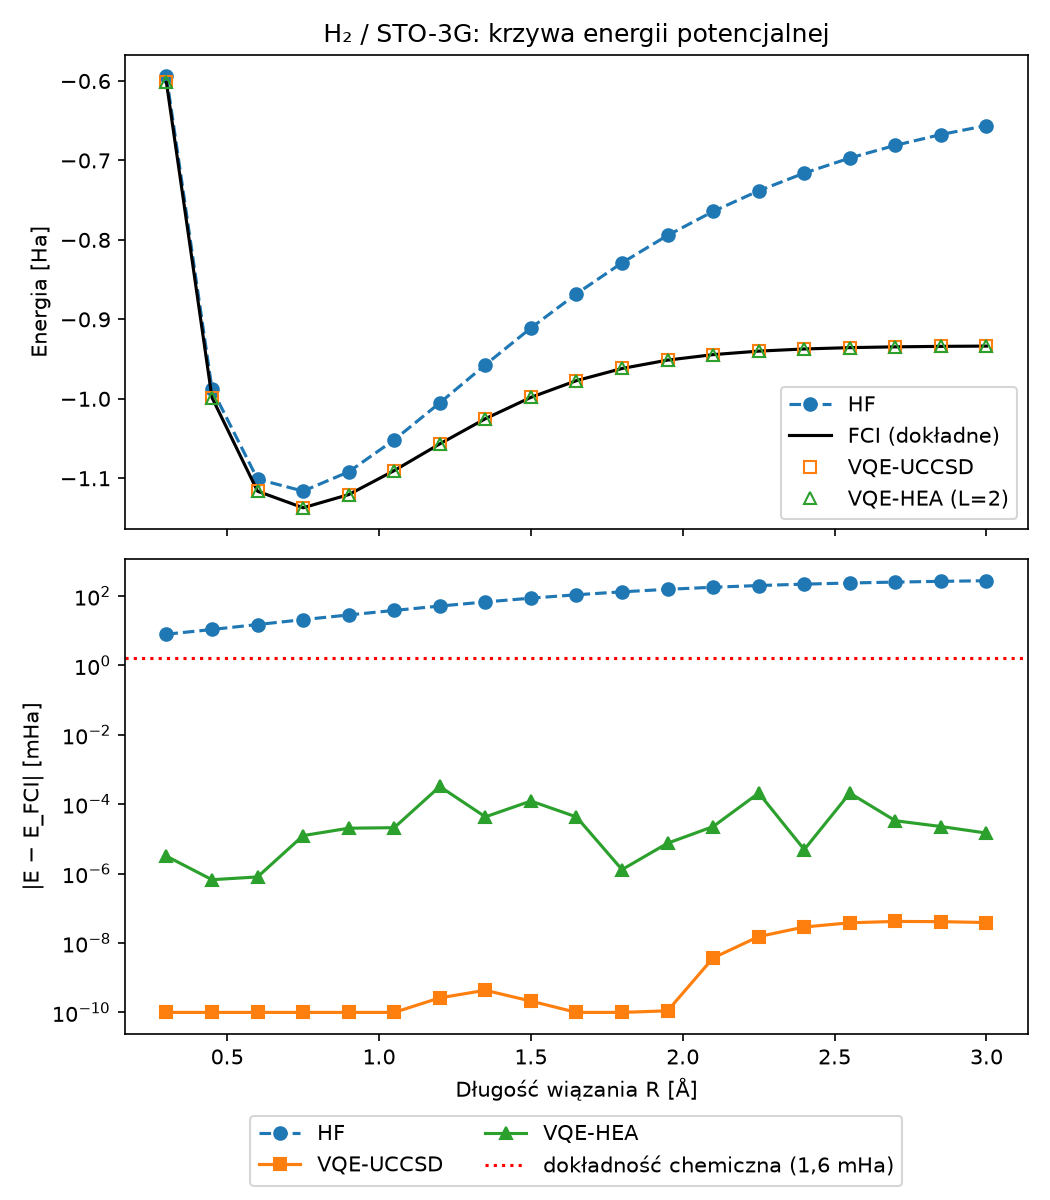
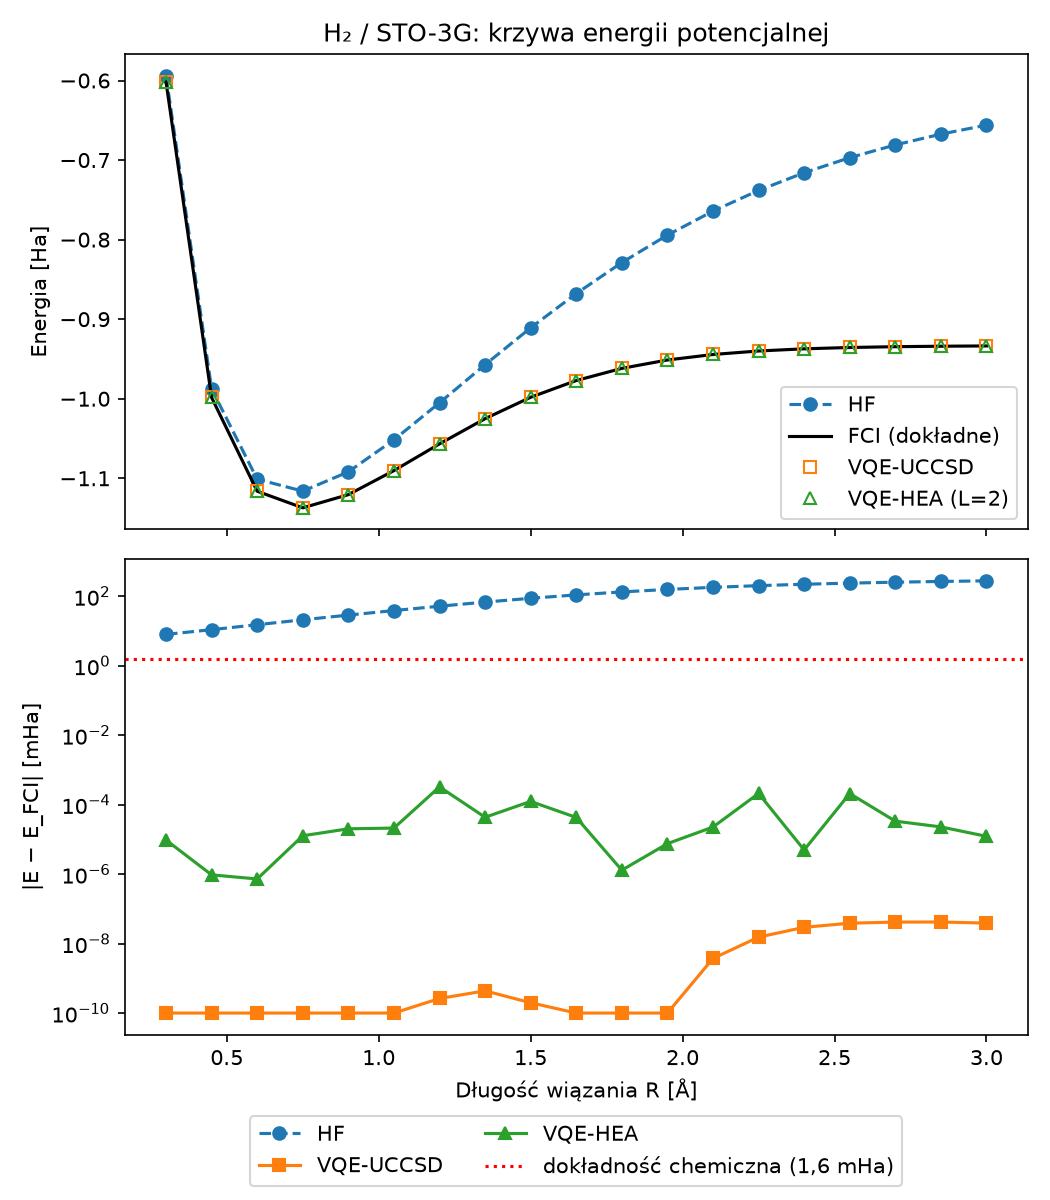
feat: experiment no. 1

diff --git a/experiments/exp01_h2_krzywa.py b/experiments/exp01_h2_krzywa.py
@@ -121,6 +121,7 @@ def main():
                      "nfev_UCCSD": nfev_ucc, "nfev_HEA": nfev_hea})
         print(f"{R:6.2f} {e_hf:11.6f} {e_fci:11.6f} {e_ucc:11.6f} {e_hea:11.6f}"
               f" {1e3 * abs(e_ucc - e_fci):15.2e} {1e3 * abs(e_hea - e_fci):13.2e}")
+        print(qubit_op)
 
     # circuit resources (independent of R, so computed once)
     uccsd, hea = build_ansatze(*qubit_problem(R_VALUES[0])[:2])
